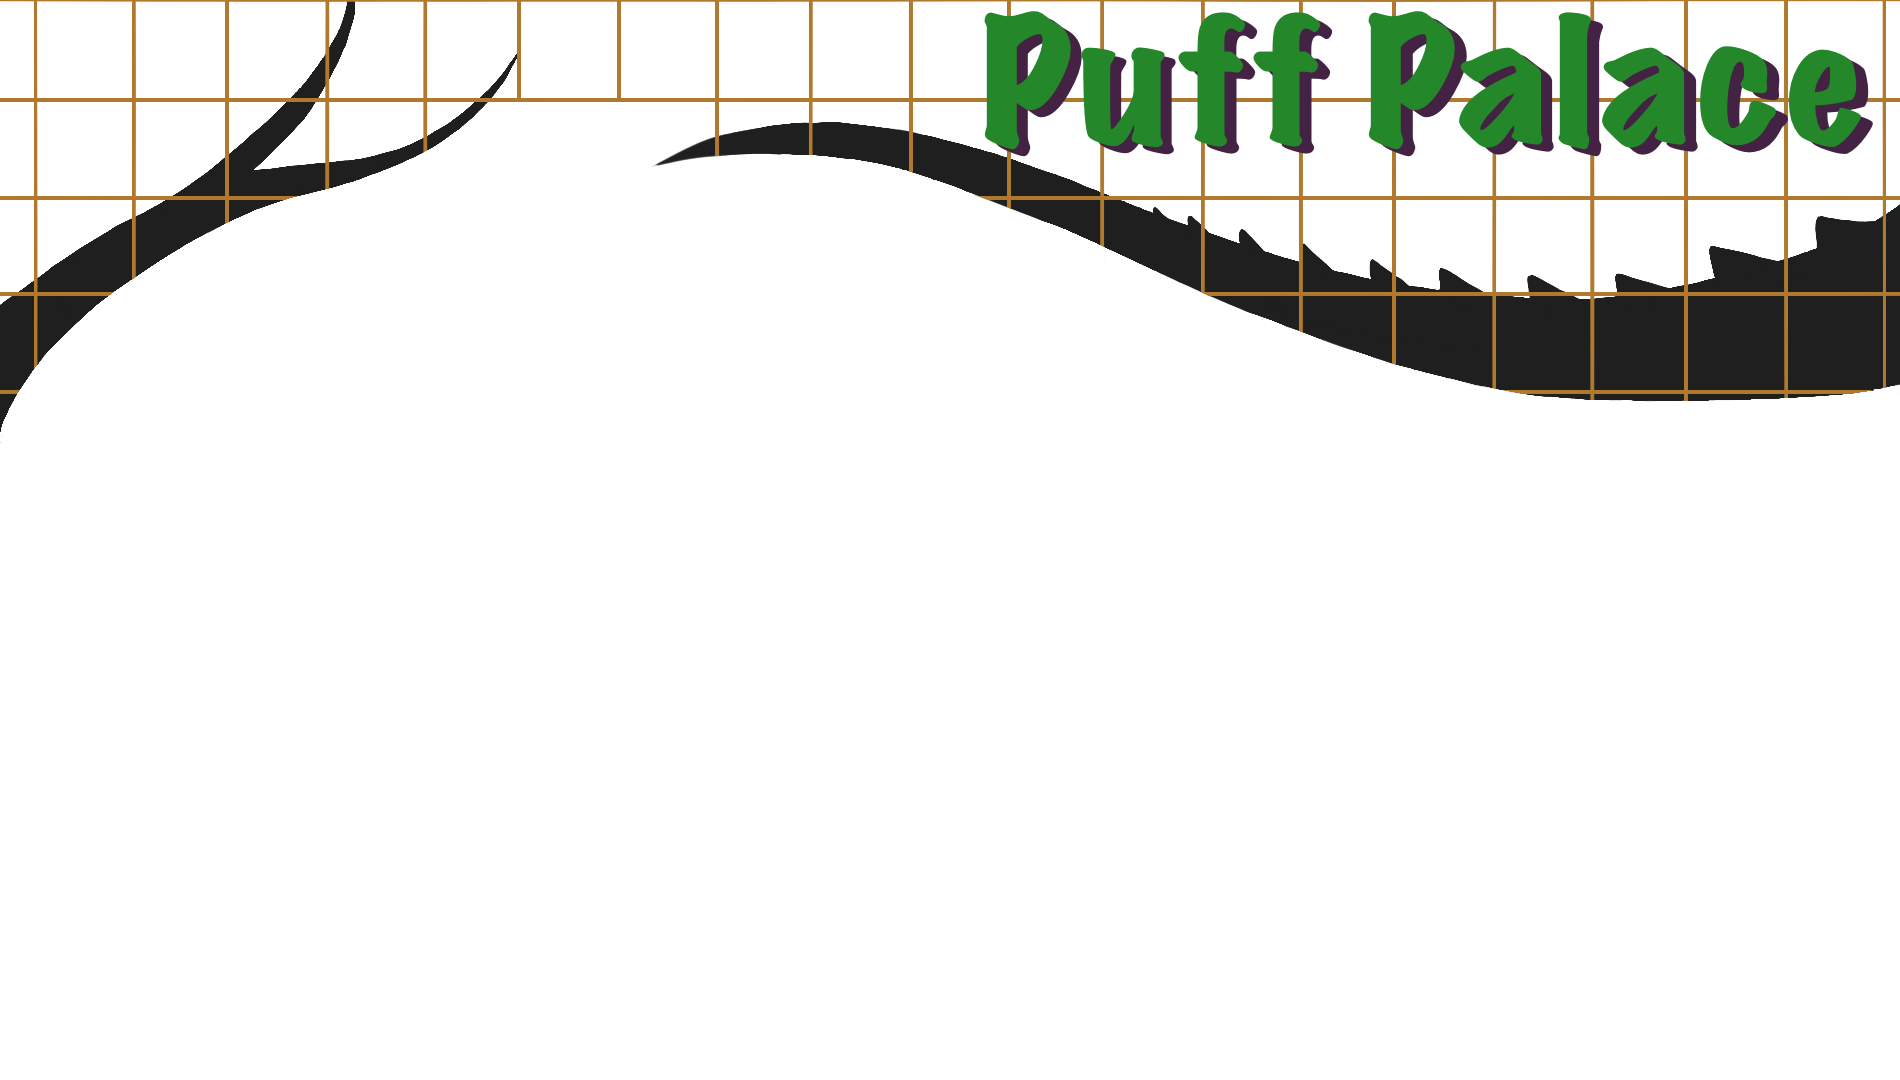
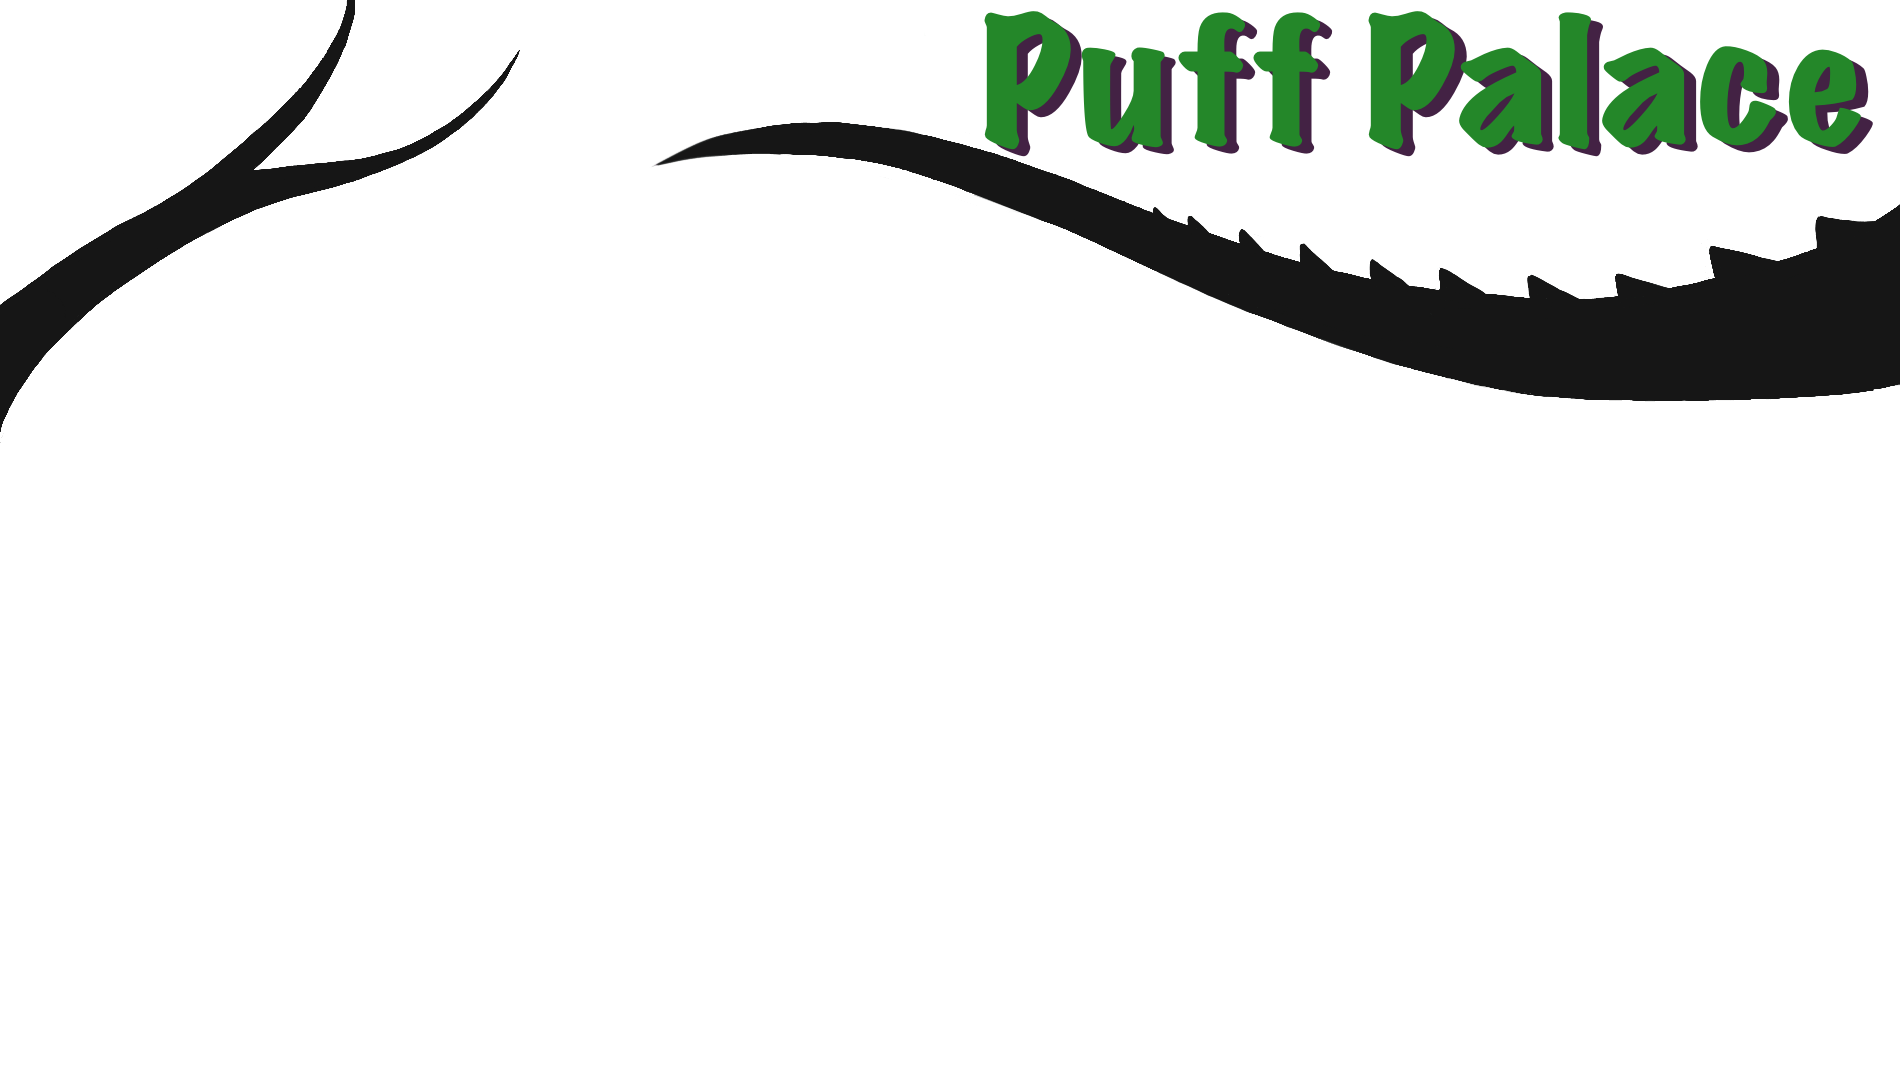
background change

diff --git a/src/components/edibles.js b/src/components/edibles.js
@@ -3,9 +3,9 @@ import { edible } from '../data';
 import { Link } from 'react-router-dom'
 import gummi from '../images/gummi.jpeg';
 
-const edibles = () => {
+const edibles = (props) => {
 return(
-    <div className="edible-container">
+    <div className={`edible-container ${props.darkmode ? "" : "dark-mode-black-background"}`}>
     {edible.map(item =>{
       return(
           <Link className="aTagForEdibles" path to={`./edibles/${item.id}`}>

diff --git a/src/App.css b/src/App.css
@@ -37,6 +37,7 @@ nav{
   flex-direction: row;
   height: auto;
   flex-wrap: wrap;
+
 }
 
 .columns{
@@ -83,7 +84,7 @@ nav{
 .dark-mode{
   background: url('./images/Dark\ Mode.png');
   background-repeat: no-repeat;
-  background-color: black;
+  background-color:black;
   height: 100vmax;
   }
 

diff --git a/src/components/Item.js b/src/components/Item.js
@@ -16,7 +16,7 @@ export const Item = (props) =>{
     qty[0].value = "";
     }
     return (
-        <div className="edible-single">
+        <div className={`edible-single`}>
         <p className="aTagForEdibles">{item.description}</p>
         <img src={gummi} width="500px"/>
         <form>

diff --git a/src/components/LeafItem.js b/src/components/LeafItem.js
@@ -19,7 +19,7 @@ const LeafItem = (props) =>{
         }
 
     return(
-        <div className="edible-single">
+        <div className={`edible-single`}>
             <img src={dryleaves} width="500px"></img>
             <p className="aTagForEdibles">{item.description}</p>
             <form>

diff --git a/src/App.js b/src/App.js
@@ -20,7 +20,7 @@ function App() {
   let darkmode = document.getElementsByClassName("darkmode");
   const toggleButton = () => {
     setDarkMode(!darkMode)
-  }
+    }
   const changing = () =>{
     if(darkMode === false){
       darkmode[0].classList.add("darkmargin")
